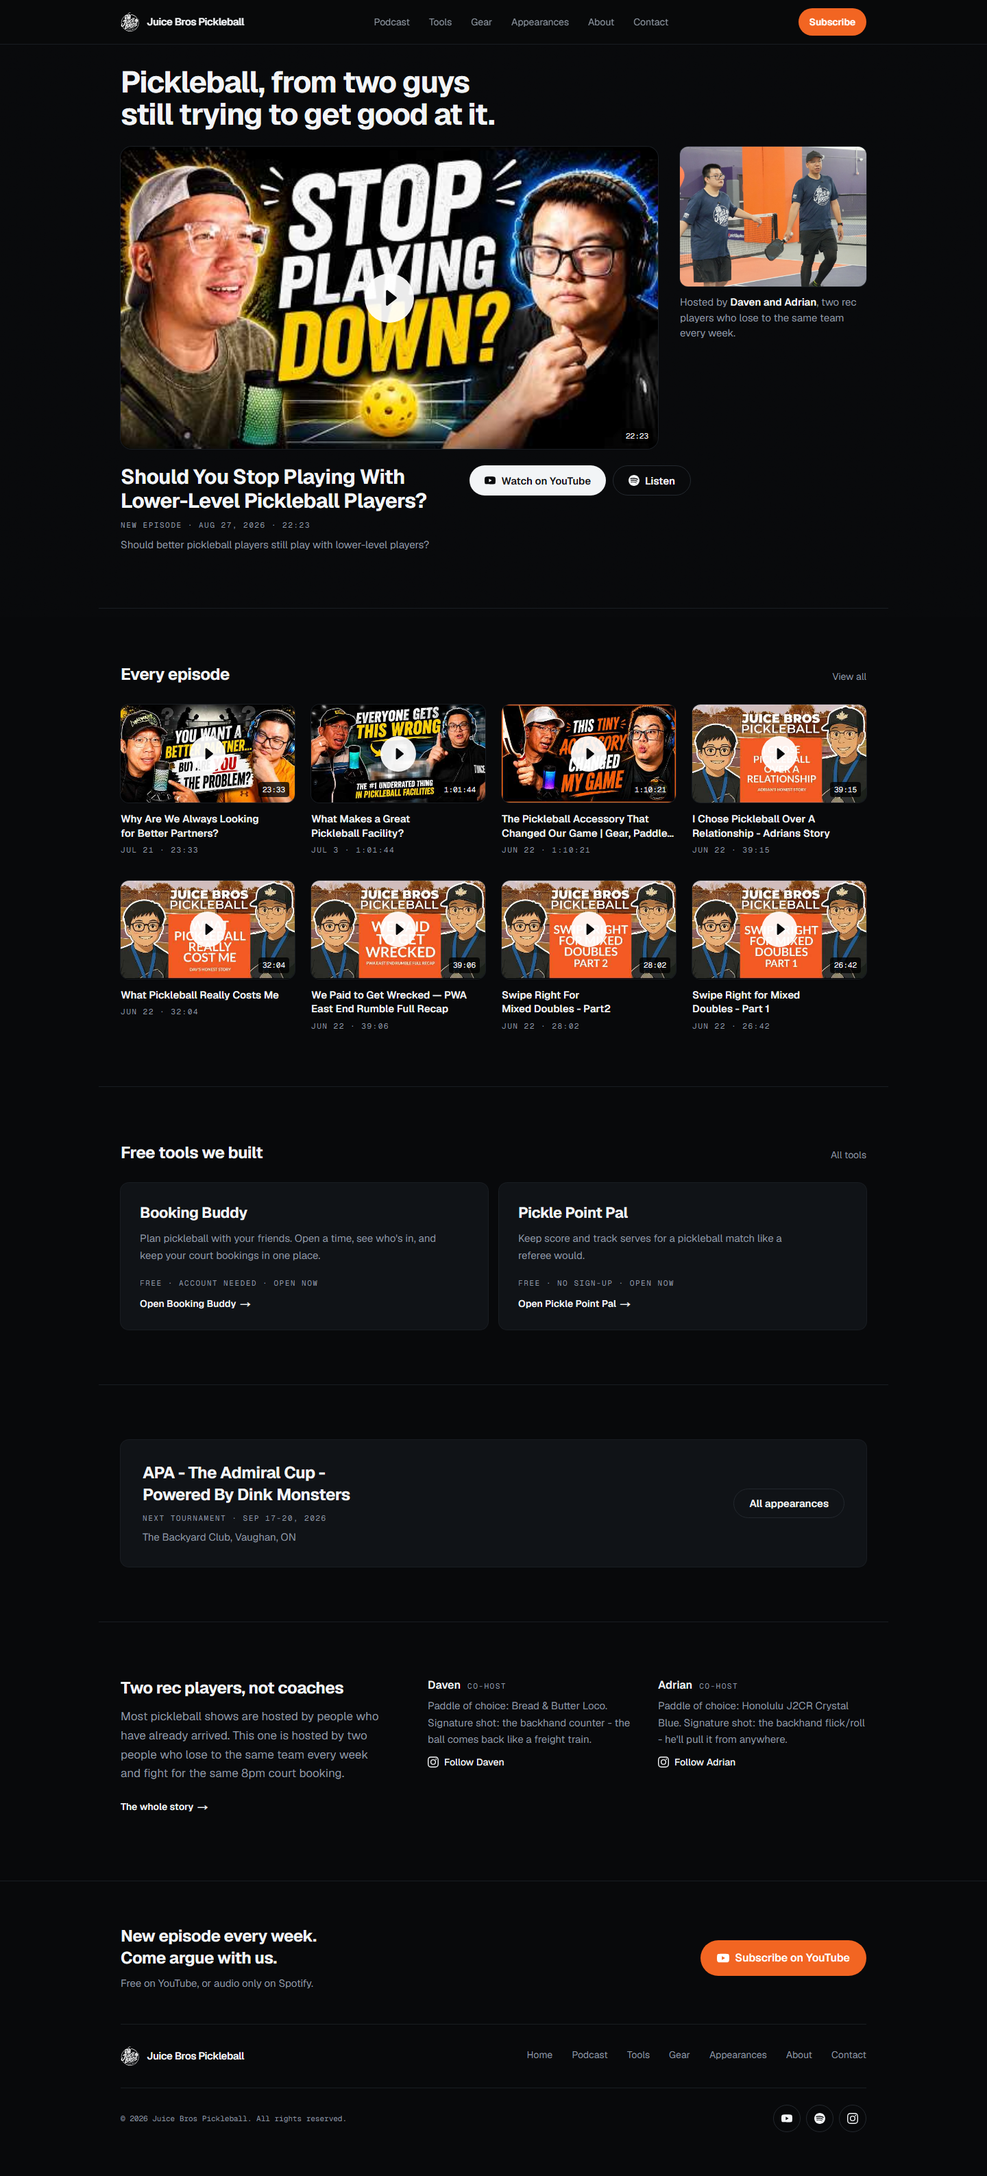
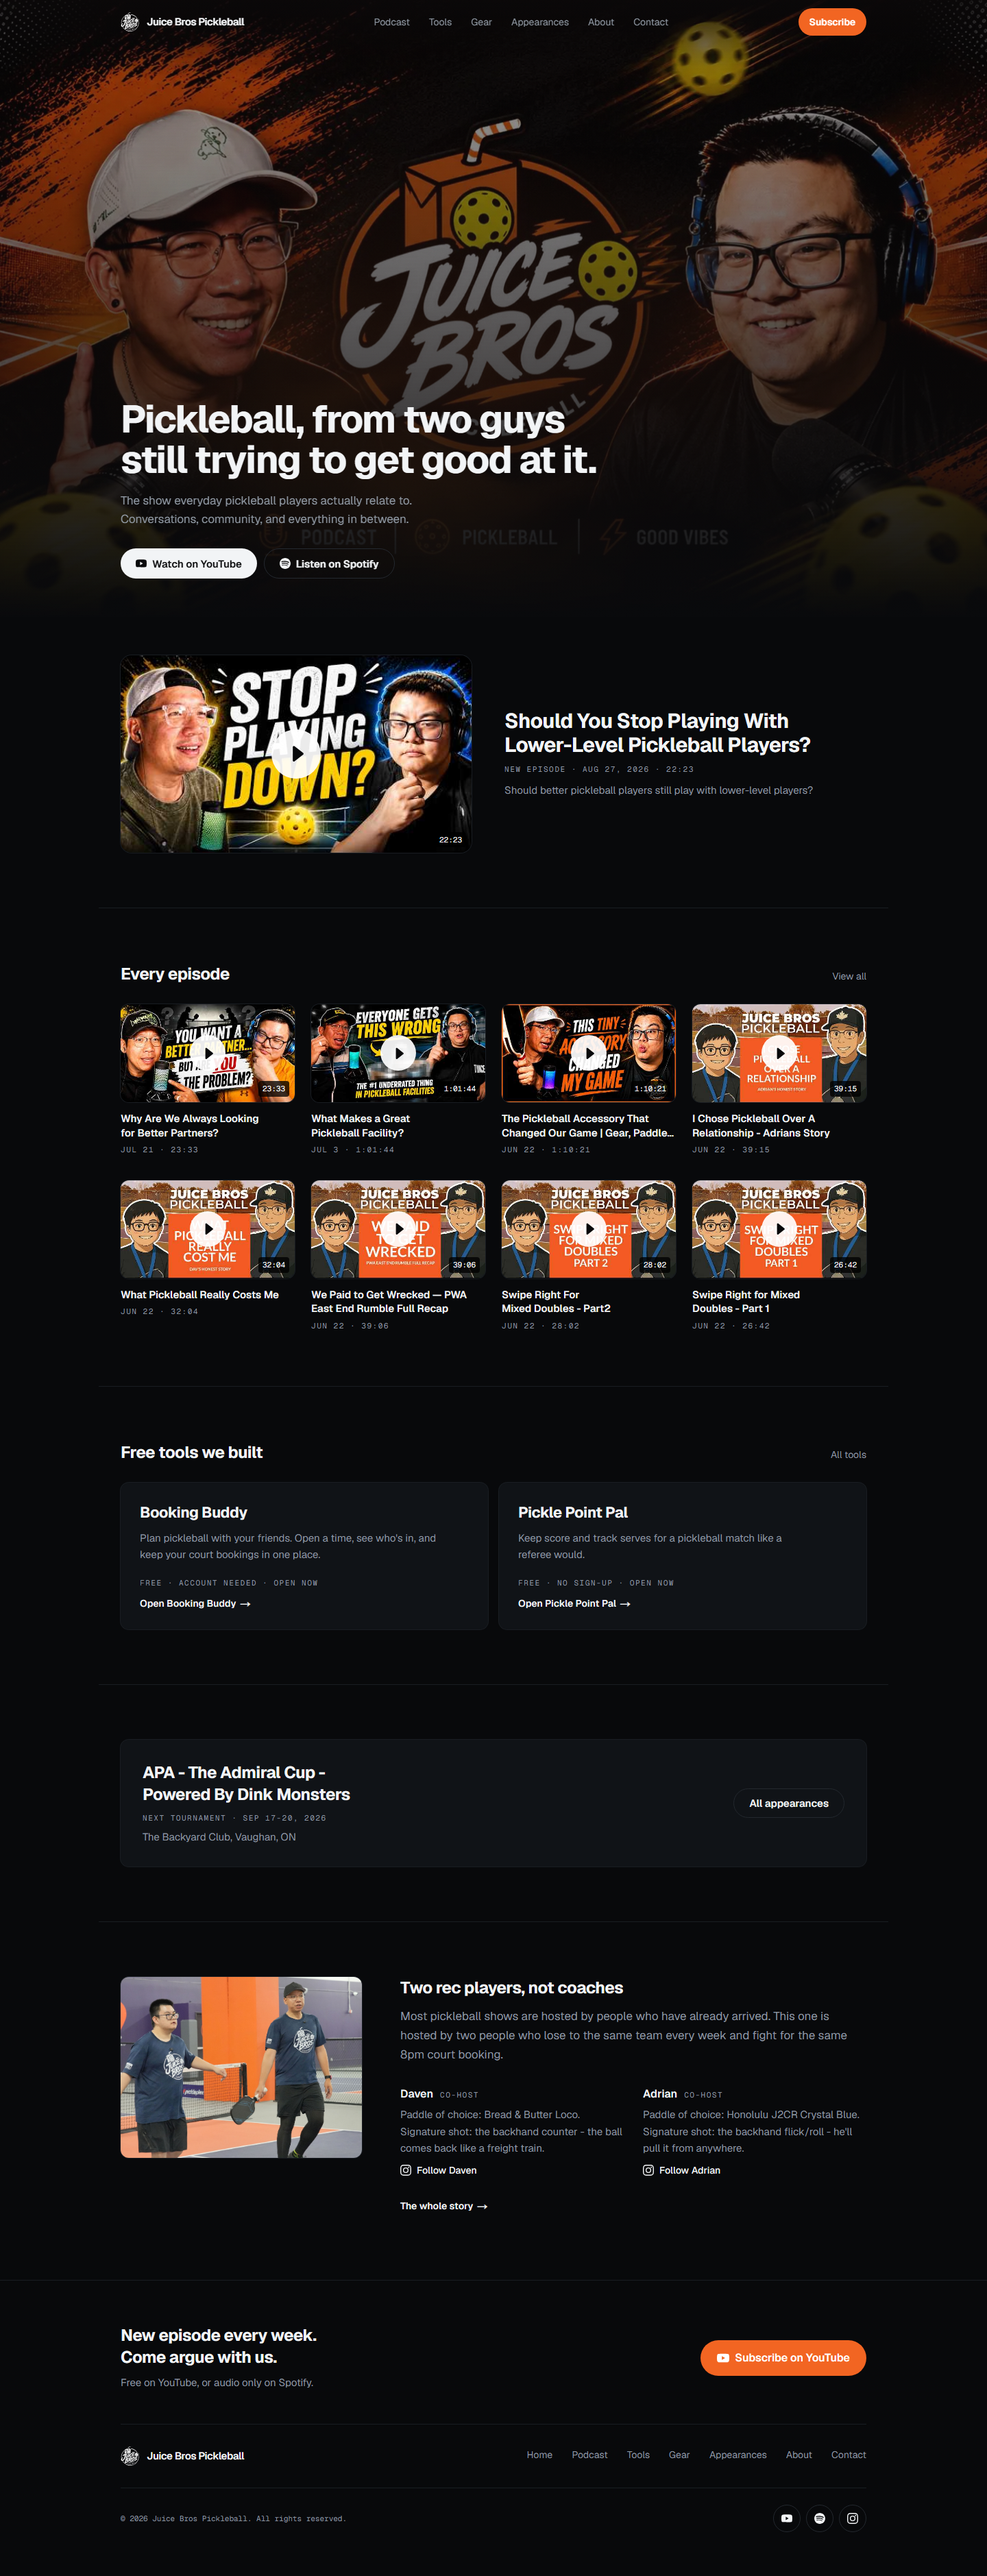
Home: keep the full photo hero, on the dark theme, with the new headline
Adrian's call after seeing both variants side by side: keep the hero the site
already has, put the new headline in it, and run the dark theme through the
whole page.

So the hero is the incumbent's, unchanged in kind: the full-bleed banner at
full viewport height, the citrus WebGL field, the scrim. The only edit is the
one that was never about the photo - the h1 is the positioning line rather than
the show's own name.

The cost of the full height is real and stated rather than designed around:
nothing playable reaches the first screen, which works against the growth
metric this page serves. That is Adrian's trade to make, and `min-h-svh` to
`min-h-[34rem]` in photo-hero.tsx is the whole change if he wants the newest
episode breaking the fold later.

Everything below the hero stays as reviewed: the newest episode, the archive
grid, the tools, the tournament notice, the hosts and the footer, all on the
near-black ground with orange spent only on subscribe.

Also fixes two things this merge exposed:
- `TopBar` gets an `overlay` mode so the banner runs continuously to the top of
  the page rather than shipping a bare strip of ground above it, plus a short
  ramp under the bar: the banner's brightest passage falls exactly where the
  nav items sit, and without it "Gear" and "Appearances" read against a lit
  straw.
- The hosts section declared two columns but held three children, so the host
  list wrapped into the narrow photo column. The list is nested with the copy
  now.

diff --git a/src/app/(home)/sections/the-hosts.tsx b/src/app/(home)/sections/the-hosts.tsx
@@ -17,7 +17,7 @@ export function TheHosts() {
       {/* The photograph belongs here in this variant. The hero above runs the
           brand banner rather than the on-court shot, so this is the only place
           the two of them appear and it is not a duplicate. */}
-      <div className="grid gap-8 lg:grid-cols-[minmax(0,24rem)_1fr] lg:items-center lg:gap-14">
+      <div className="grid gap-8 lg:grid-cols-[minmax(0,22rem)_1fr] lg:items-start lg:gap-14">
         <figure className="bx-tile aspect-[4/3]">
           {/* eslint-disable-next-line @next/next/no-img-element -- local photo, no next/image optimization needed here */}
           <img
@@ -41,9 +41,32 @@ export function TheHosts() {
             week and fight for the same 8pm court booking.
           </p>
 
+          <dl className="mt-8 grid gap-7 sm:grid-cols-2">
+            {team.map((member) => (
+              <div key={member.name}>
+                <dt className="flex items-baseline gap-2.5">
+                  <span className="text-base font-semibold">{member.name}</span>
+                  <span className="bx-meta">{member.role}</span>
+                </dt>
+                <dd className="mt-1.5 text-[0.9375rem] leading-relaxed text-[var(--bx-muted)]">
+                  {member.funFact}
+                  <a
+                    href={member.instagramUrl}
+                    target="_blank"
+                    rel="noopener noreferrer"
+                    className="mt-2.5 flex items-center gap-2 text-sm font-medium text-[var(--bx-ink)] transition-colors duration-200 hover:text-[var(--bx-muted)]"
+                  >
+                    <InstagramIcon className="size-4" />
+                    Follow {member.name}
+                  </a>
+                </dd>
+              </div>
+            ))}
+          </dl>
+
           <Link
             href="/about"
-            className="mt-6 inline-flex text-sm font-semibold transition-colors duration-200 hover:text-[var(--bx-muted)]"
+            className="mt-8 inline-flex text-sm font-semibold transition-colors duration-200 hover:text-[var(--bx-muted)]"
           >
             The whole story
             <span aria-hidden className="ml-1.5">
@@ -51,29 +74,6 @@ export function TheHosts() {
             </span>
           </Link>
         </div>
-
-        <dl className="grid gap-8 sm:grid-cols-2">
-          {team.map((member) => (
-            <div key={member.name}>
-              <dt className="flex items-baseline gap-2.5">
-                <span className="text-base font-semibold">{member.name}</span>
-                <span className="bx-meta">{member.role}</span>
-              </dt>
-              <dd className="mt-1.5 text-[0.9375rem] leading-relaxed text-[var(--bx-muted)]">
-                {member.funFact}
-                <a
-                  href={member.instagramUrl}
-                  target="_blank"
-                  rel="noopener noreferrer"
-                  className="mt-2.5 flex items-center gap-2 text-sm font-medium text-[var(--bx-ink)] transition-colors duration-200 hover:text-[var(--bx-muted)]"
-                >
-                  <InstagramIcon className="size-4" />
-                  Follow {member.name}
-                </a>
-              </dd>
-            </div>
-          ))}
-        </dl>
       </div>
     </section>
   );

diff --git a/src/app/(home)/sections/photo-hero.tsx b/src/app/(home)/sections/photo-hero.tsx
@@ -6,22 +6,22 @@ import { HeroBackdrop } from "./hero-backdrop";
  * The full-bleed photo hero, kept from the incumbent and fixed rather than
  * replaced.
  *
- * Two things changed from the version this is based on:
+ * One thing changed from the incumbent: the h1 is the positioning line, not the
+ * show's own name. The name is in the bar directly above it, and the largest
+ * text on the page telling a first-time visitor nothing was the incumbent's
+ * real defect.
  *
- * 1. The h1 is the positioning line, not the show's own name. The name is in
- *    the bar directly above it, and the largest text on the page telling a
- *    first-time visitor nothing was the incumbent's real defect.
- * 2. The hero is no longer a full viewport tall. At `min-h-[calc(100dvh-4rem)]`
- *    nothing playable reached the first screen, which works against the one
- *    metric this page exists to move. It is now sized so the newest episode
- *    breaks the fold underneath it.
- *
- * The scrim stays. Darkening a photograph behind type is how you put type on a
- * photograph, not a flaw to design around.
+ * Everything else is kept deliberately. The scrim stays - darkening a
+ * photograph behind type is how you put type on a photograph, not a flaw to
+ * design around. The full viewport height stays too, at Adrian's call: it
+ * means nothing playable reaches the first screen, which is a real cost
+ * against this page's growth metric, and it is his trade to make. Dropping to
+ * `min-h-[34rem]` is the one-line change if he ever wants the newest episode
+ * breaking the fold instead.
  */
 export function PhotoHero() {
   return (
-    <section className="relative isolate flex min-h-[30rem] flex-col justify-end overflow-hidden lg:min-h-[34rem]">
+    <section className="relative isolate flex min-h-svh flex-col justify-end overflow-hidden">
       {/* LCP element. The hand-optimised WebP variants are the same ones the
           incumbent hero shipped (see PROGRESS.md Phase 3.5); the .jpeg is the
           fallback for anything ignoring <source>. */}
